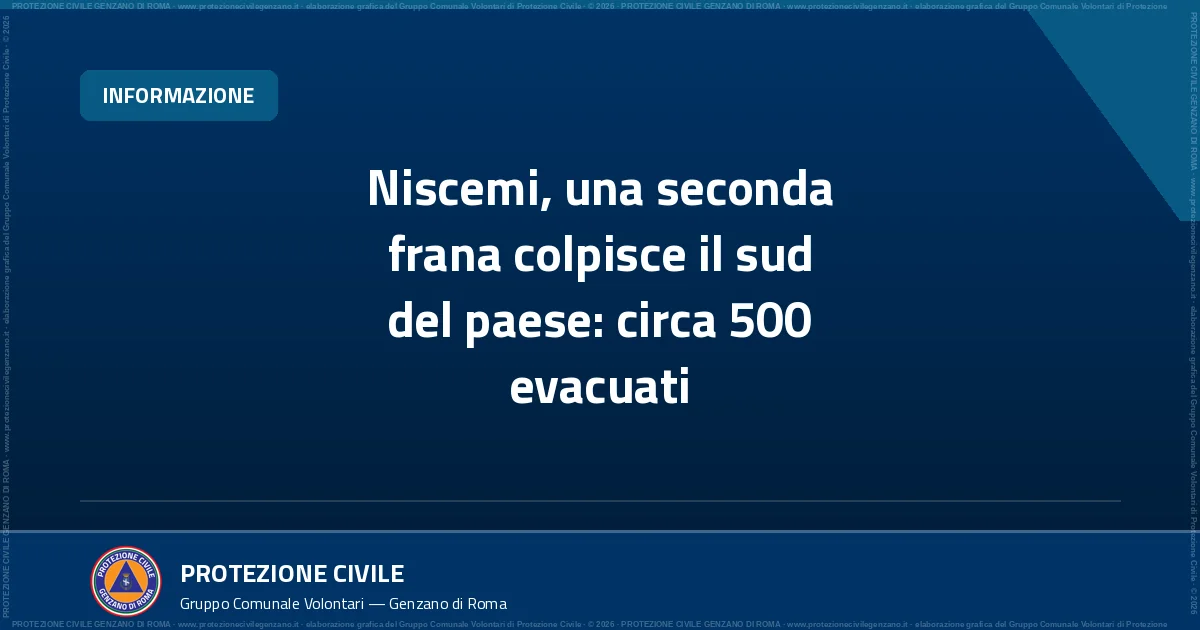
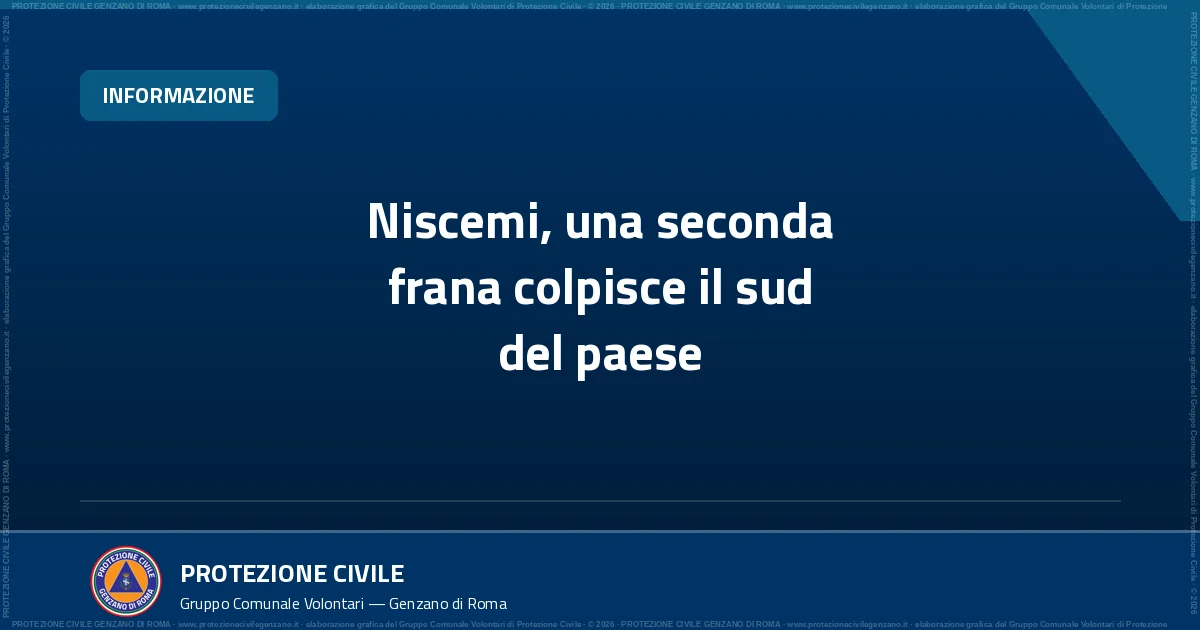
Archivio 2026: maltempo di gennaio e frana di Niscemi ricontrollati sulle fonti ufficiali
Niscemi: le persone evacuate sono 1.500 al 27 gennaio secondo il Dipartimento della Protezione Civile, non «circa 500» come nelle prime cronache; titolo e copertina aggiornati, tolti i dettagli presenti solo nelle cronache, aggiunti fronte instabile e rilievi dell'Università di Firenze. Decreto-legge 25 e ordinanza 1180: destinazione dei fondi, integrazione al reddito e aggiornamento sulla conversione in legge (legge 27 aprile 2026, n. 59). Piogge e vento al passato come nella fonte.

Changed region(s): [[0.3083, 0.2714, 0.7092, 0.6635]]

diff --git a/content/comunicazioni/2026-02-27-decreto-legge-25-maltempo-sud-niscemi.md b/content/comunicazioni/2026-02-27-decreto-legge-25-maltempo-sud-niscemi.md
@@ -20,17 +20,17 @@ Venerdì 27 febbraio 2026 la Gazzetta Ufficiale n. 48 pubblica il decreto-legge 
 
 ## Gli aiuti per il maltempo iniziato il 18 gennaio
 
-Per queste tre regioni il Consiglio dei ministri aveva dichiarato lo stato di emergenza il 26 gennaio, per dodici mesi. Per i fabbisogni legati al maltempo il decreto autorizza 90 milioni di euro per il 2026 e 25 milioni per il 2027. Per il 2027 se ne aggiungono altri 50.
+Per queste tre regioni il Consiglio dei ministri aveva dichiarato lo stato di emergenza il 26 gennaio, per dodici mesi. Il decreto autorizza 90 milioni di euro per il 2026 e 25 per il 2027. Per il 2027 se ne aggiungono altri 50. Servono per i danni ai beni dei privati e alle attività economiche e produttive. È una misura della legge di bilancio 2022, che il decreto estende a questi eventi.
 
 Alcune famiglie e imprese avevano la casa o la sede in un immobile danneggiato e sgomberato perché inagibile. Per loro sono sospesi i versamenti di imposte e contributi in scadenza dal 18 gennaio al 30 aprile 2026. Si pagano in un'unica soluzione entro il 10 ottobre 2026, senza sanzioni né interessi.
 
-Nei comuni colpiti i lavoratori dipendenti che non hanno potuto lavorare ricevono dall'INPS un'integrazione al reddito, al massimo fino al 30 aprile 2026. I lavoratori autonomi che hanno dovuto fermarsi hanno un'indennità di 500 euro per ogni periodo di sospensione fino a quindici giorni. Il totale non può superare 3.000 euro.
+Nei comuni colpiti i lavoratori dipendenti del settore privato che non hanno potuto lavorare ricevono un'integrazione al reddito. Vale al massimo fino al 30 aprile 2026. La paga l'Istituto nazionale della previdenza sociale (INPS). I lavoratori autonomi costretti a fermarsi hanno un'indennità di 500 euro per ogni periodo di sospensione fino a quindici giorni. Il totale non può superare 3.000 euro.
 
 ## Niscemi: un commissario e i contributi per spostarsi
 
 Il Capo del Dipartimento della Protezione Civile diventa Commissario straordinario per l'area di Niscemi, senza compensi. Resta in carica fino al 31 dicembre 2027 e dispone di 150 milioni di euro per il 2026.
 
-Entro sessanta giorni prepara i programmi d'intesa con il Presidente della Regione Siciliana, sentito il sindaco. Metà dei fondi, 75 milioni, serve a demolire gli edifici nell'area della frana e nella fascia di rispetto e a dare un contributo ai proprietari. L'altra metà finanzia interventi di prevenzione e di riduzione del rischio idraulico e idrogeologico.
+Entro sessanta giorni prepara i programmi d'intesa con il Presidente della Regione Siciliana, sentito il sindaco. Metà dei fondi, 75 milioni, serve a demolire gli edifici nell'area della frana e nella fascia di rispetto. La stessa somma copre anche un contributo ai proprietari degli edifici demoliti. L'altra metà finanzia interventi di prevenzione e di riduzione del rischio idraulico e idrogeologico.
 
 Con il contributo i proprietari possono comprare un terreno già previsto dai piani urbanistici, oppure un immobile subito disponibile. Vale a Niscemi o nei comuni vicini.
 
@@ -42,16 +42,31 @@ Il Dipartimento coordina e gestisce la Rete Radio Nazionale di protezione civile
 
 A Genzano le allerte meteo restano quelle del bollettino del Centro Funzionale regionale, sulla pagina [Allerte meteo](/allerte-meteo/). In emergenza si chiama il 112.
 
+## Aggiornamento del 5 novembre 2026: il decreto convertito in legge
+
+La legge 27 aprile 2026, n. 59, ha convertito il decreto con alcune modifiche. È nella Gazzetta Ufficiale n. 97 del 28 aprile. Fra le modifiche, queste riguardano le misure descritte sopra:
+
+- la sospensione vale anche per i canoni di leasing di edifici distrutti o inagibili e di beni usati nell'attività;
+- il Commissario straordinario subentra anche nella gestione delle attività dell'[ordinanza n. 1180](/comunicazioni/2026-01-30-ordinanza-1180-maltempo-gennaio/) per il territorio di Niscemi;
+- il contributo per Niscemi può servire anche a costruire un immobile sulle aree acquistate;
+- in alternativa, può servire a rimettere in uso un altro immobile di cui il proprietario dispone;
+- il contributo può andare anche ai titolari di immobili privati non residenziali entro 150 metri dal bordo superiore della frana;
+- aree e immobili nei comuni vicini sono ammessi solo se a Niscemi mancano quelli idonei;
+- per le regole dell'app serve anche l'intesa della Conferenza unificata fra Stato, Regioni ed enti locali.
+
+Il testo in vigore del decreto è su Normattiva, fra le fonti qui sotto.
+
 ## Per approfondire
 
 **Sul nostro sito:**
 
 - [Niscemi, una seconda frana colpisce il sud del paese](/comunicazioni/2026-01-25-niscemi-seconda-frana-evacuazioni/)
 - [Maltempo al Sud: stato di emergenza per Calabria, Sardegna e Sicilia](/comunicazioni/2026-01-26-stato-emergenza-calabria-sardegna-sicilia/)
+- [Ordinanza n. 1180: i primi interventi dopo il maltempo di gennaio al Sud](/comunicazioni/2026-01-30-ordinanza-1180-maltempo-gennaio/)
 - [IT-alert: prorogata la sperimentazione per maremoto e Stromboli](/comunicazioni/2026-02-12-it-alert-proroga-sperimentazione/)
 - [Rischio idrogeologico](/rischi-prevenzione/rischio-idrogeologico/)
 
 **Fonti:**
 
 - [Gazzetta Ufficiale — Decreto-legge 27 febbraio 2026, n. 25 (Serie generale n. 48, testo originale)](https://www.gazzettaufficiale.it/eli/id/2026/02/27/26G00045/sg)
-- [Normattiva — Decreto-legge 27 febbraio 2026, n. 25, testo vigente](https://www.normattiva.it/eli/id/2026/02/27/26G00045/CONSOLIDATED)
+- [Normattiva — Decreto-legge 27 febbraio 2026, n. 25, convertito dalla legge 27 aprile 2026, n. 59, testo vigente](https://www.normattiva.it/eli/id/2026/02/27/26G00045/CONSOLIDATED)

diff --git a/content/comunicazioni/2026-01-25-niscemi-seconda-frana-evacuazioni.md b/content/comunicazioni/2026-01-25-niscemi-seconda-frana-evacuazioni.md
@@ -1,12 +1,12 @@
 ---
-title: "Niscemi, una seconda frana colpisce il sud del paese: circa 500 evacuati"
+title: "Niscemi, una seconda frana colpisce il sud del paese"
 date: 2026-01-25
-description: "Domenica 25 gennaio si riattiva il fronte della frana del 1997 a Niscemi, in provincia di Caltanissetta. Per precauzione vengono evacuate circa 500 persone."
+description: "Domenica 25 gennaio si riattiva il fronte della frana del 1997 a Niscemi, in provincia di Caltanissetta. Il 27 gennaio le persone evacuate sono 1.500."
 badge: "Informazione"
 priorita: "normale"
 autore: "Gruppo Comunale Volontari PC Genzano"
 image: "/images/2026-01-25-niscemi-seconda-frana-evacuazioni.webp"
-image_alt: "Cover dell'articolo: Niscemi, una seconda frana colpisce il sud del paese: circa 500 evacuati"
+image_alt: "Cover dell'articolo: Niscemi, una seconda frana colpisce il sud del paese"
 scadenza: ""
 area: ""
 allegati: []
@@ -16,25 +16,27 @@ social_punti: []
 draft: false
 ---
 
-Domenica 25 gennaio 2026, intorno alle 12.30, a Niscemi, in provincia di Caltanissetta, la collina si muove di nuovo. Si riattiva il fronte della frana del 1997, a ridosso della parte sud del centro abitato. Per precauzione, la Protezione civile della Regione Siciliana dispone l'evacuazione di circa 500 persone.
+Domenica 25 gennaio 2026, intorno alle 12.30, a Niscemi, in provincia di Caltanissetta, la collina si muove di nuovo. Si riattiva il fronte della frana del 1997, a ridosso della parte sud del centro abitato. Il Sindaco individua una zona rossa e ne dispone l'evacuazione. Secondo il Dipartimento della Protezione Civile, il 27 gennaio le persone evacuate sono 1.500.
 
 ## La seconda frana in nove giorni
 
 Niscemi era già in difficoltà. Nelle prime ore di venerdì 16 gennaio una grande frana aveva colpito l'area a ridosso della parte occidentale del paese.
 
-La frana del 25 gennaio è più grande. Compromette gran parte della viabilità locale e la stabilità di numerosi edifici, e interrompe i servizi essenziali. Il cedimento interessa anche la strada provinciale 10, nel tratto che porta al centro abitato, vicino al quartiere Sante Croci. Rilievi e approfondimenti geologici servono a capire se il nuovo movimento sia collegato a quello del 16 gennaio.
+La frana del 25 gennaio è più grande. Compromette gran parte della viabilità locale e la stabilità di numerosi edifici, e interrompe i servizi essenziali. In tutto, secondo il Dipartimento, il fronte instabile corre per circa 4,7 chilometri lungo il margine del paese. Coinvolge il settore Sante Croci-Belvedere, l'area del torrente Benefizio e i versanti fra le strade provinciali 10 e 12. Il 26 gennaio il Dipartimento attiva l'Università di Firenze, suo centro di competenza, per i primi rilievi sul campo.
 
 ## L'accoglienza
 
-Per chi lascia casa è pronta un'area di accoglienza nel Palazzetto dello Sport «Pio La Torre». Da Palermo vengono trasferite centinaia di brandine. Sul posto lavorano i Vigili del fuoco e circa 70 volontari arrivati dai territori vicini. Con loro ci sono il Sindaco e i tecnici del Comune e della Protezione civile regionale.
+Per chi lascia casa è pronta un'area di accoglienza nel Palazzetto dello Sport «Pio La Torre». Secondo le cronache, da Palermo arrivano centinaia di brandine.
+
+Al 27 gennaio, riferisce il Dipartimento, la maggior parte delle persone evacuate ha trovato posto da familiari. Al palazzetto ne sono ospitate circa 20. Sul posto lavorano numerose squadre dei Vigili del Fuoco e circa 60 volontari di organizzazioni locali di protezione civile. Le Forze dell'ordine fanno rispettare il divieto di accesso alla zona rossa.
 
 ## Una frana che ha una storia
 
 Il 12 ottobre 1997 una frana di circa 1,5 chilometri quadrati aveva colpito Niscemi. Nel quartiere Sante Croci edifici pubblici e privati erano stati distrutti o dichiarati inagibili. Due giorni dopo era stato dichiarato lo stato di emergenza.
 
-Secondo il Dipartimento della Protezione Civile, da quell'evento erano rimasti aperti due problemi: il piano per demolire gli edifici dell'area di frana e indennizzare i proprietari, e i lavori di consolidamento della frana. Nel maggio 2025 gli enti del territorio riferivano che il fronte di frana era ancora attivo. Secondo loro poteva minacciare anche case di altri quartieri.
+Secondo il Dipartimento della Protezione Civile, da quell'evento erano rimasti aperti due problemi. Il primo era il piano per demolire gli edifici dell'area di frana e indennizzare i proprietari. Il secondo era il consolidamento della frana. Nel maggio 2025 gli enti del territorio riferivano che il fronte di frana era ancora attivo. Secondo loro poteva minacciare anche case di altri quartieri.
 
-Il caso di Niscemi mostra che una frana conosciuta può tornare a muoversi, anche dopo molti anni. Le aree a pericolosità di frana sono mappate: nella pagina sul [rischio idrogeologico](/rischi-prevenzione/rischio-idrogeologico/) trovi dove consultare le mappe per il tuo indirizzo. In caso di pericolo immediato chiama il 112.
+Il caso di Niscemi mostra che una frana conosciuta può tornare a muoversi, anche dopo molti anni. Le aree a pericolosità di frana sono mappate. Nella pagina sul [rischio idrogeologico](/rischi-prevenzione/rischio-idrogeologico/) trovi dove consultare le mappe per il tuo indirizzo. In caso di pericolo immediato chiama il 112.
 
 ## Per approfondire
 

diff --git a/content/comunicazioni/2026-01-30-ordinanza-1180-maltempo-gennaio.md b/content/comunicazioni/2026-01-30-ordinanza-1180-maltempo-gennaio.md
@@ -26,7 +26,7 @@ Il piano riguarda il soccorso e l'assistenza alla popolazione e il ripristino de
 
 ## Gli aiuti per famiglie e imprese
 
-Il contributo per l'autonoma sistemazione aiuta chi deve vivere altrove. Riguarda le famiglie con la casa principale distrutta, anche in parte, o sgomberata per ordine del Comune. Va da 400 euro al mese per una persona sola a 900 euro per cinque o più persone. Si aggiungono 200 euro al mese per ogni persona con più di 65 anni o con un'invalidità di almeno il 67%. Il contributo non spetta se Regione, Provincia o Comune offrono un alloggio gratuito.
+Il contributo per l'autonoma sistemazione aiuta chi deve vivere altrove. Riguarda le famiglie con la casa principale distrutta, anche in parte, o sgomberata per ordine del Comune. Va da 400 euro al mese per una persona sola a 900 euro per cinque o più persone. Si aggiungono 200 euro al mese per ogni persona con più di 65 anni o un'invalidità di almeno il 67%. Il contributo non spetta se Regione, Provincia o Comune offrono un alloggio gratuito.
 
 I commissari stimano anche le risorse per un primo sostegno immediato. Il tetto è di 5.000 euro per ogni famiglia con la casa principale compromessa. Per ogni attività economica è di 20.000 euro. Chi ha un mutuo su un edificio sgomberato o danneggiato può chiedere alla banca di sospendere le rate.
 
@@ -36,12 +36,17 @@ L'articolo 17 dell'ordinanza riguarda la frana di Niscemi. Il Presidente della R
 
 L'ordinanza applica gli articoli 39 e 40 del Codice della protezione civile alle organizzazioni di volontariato. Devono essere iscritte negli elenchi territoriali delle tre Regioni. I volontari conservano il posto di lavoro e la retribuzione e sono assicurati. Le spese autorizzate possono essere rimborsate, nei limiti delle risorse disponibili.
 
+## Aggiornamento del 5 novembre 2026: il Commissario per Niscemi
+
+Il 27 febbraio il [decreto-legge n. 25](/comunicazioni/2026-02-27-decreto-legge-25-maltempo-sud-niscemi/) ha nominato il Capo del Dipartimento Commissario straordinario per l'area di Niscemi. La legge 27 aprile 2026, n. 59, ha convertito il decreto. Con la conversione il Commissario subentra anche nella gestione delle attività di questa ordinanza, per il solo territorio di Niscemi.
+
 ## Per approfondire
 
 **Sul nostro sito:**
 
 - [Maltempo al Sud: stato di emergenza per Calabria, Sardegna e Sicilia](/comunicazioni/2026-01-26-stato-emergenza-calabria-sardegna-sicilia/)
 - [Niscemi, una seconda frana colpisce il sud del paese](/comunicazioni/2026-01-25-niscemi-seconda-frana-evacuazioni/)
+- [Decreto-legge n. 25 del 2026: misure per il maltempo al Sud e per la frana di Niscemi](/comunicazioni/2026-02-27-decreto-legge-25-maltempo-sud-niscemi/)
 - [Codice della protezione civile, Capo IV: le emergenze di rilievo nazionale](/normativa/testo-unico-protezione-civile/capo-4-emergenze-nazionali/)
 - [Codice della protezione civile, Capo V: il volontariato](/normativa/testo-unico-protezione-civile/capo-5-volontariato/)
 
@@ -49,3 +54,4 @@ L'ordinanza applica gli articoli 39 e 40 del Codice della protezione civile alle
 
 - [Dipartimento della Protezione Civile — Ordinanza n. 1180 del 30 gennaio 2026](https://www.protezionecivile.gov.it/it/normativa/ocdpc-n-1180-del-30-gennaio-2026/) (pubblicata nella Gazzetta Ufficiale n. 27 del 3 febbraio 2026)
 - [Normattiva — Decreto legislativo 2 gennaio 2018, n. 1, articolo 39](https://www.normattiva.it/uri-res/N2Ls?urn:nir:stato:decreto.legislativo:2018-01-02;1~art39) e [articolo 40](https://www.normattiva.it/uri-res/N2Ls?urn:nir:stato:decreto.legislativo:2018-01-02;1~art40)
+- [Normattiva — Decreto-legge 27 febbraio 2026, n. 25, convertito dalla legge 27 aprile 2026, n. 59, articolo 15, testo vigente](https://www.normattiva.it/uri-res/N2Ls?urn:nir:stato:decreto.legge:2026-02-27;25~art15)

diff --git a/content/comunicazioni/2026-01-21-maltempo-sud-oltre-500-millimetri.md b/content/comunicazioni/2026-01-21-maltempo-sud-oltre-500-millimetri.md
@@ -16,7 +16,7 @@ social_punti: []
 draft: false
 ---
 
-Dalle prime ore di domenica 18 gennaio 2026 un'ondata di maltempo colpisce Calabria, Sardegna e Sicilia. Mercoledì 21 gennaio il Dipartimento della Protezione Civile pubblica i dati dell'evento: in tutte e tre le regioni alcune stazioni hanno misurato oltre 500 millimetri di pioggia. Il valore più alto è a San Sostene, in provincia di Catanzaro: 569,9 millimetri in 72 ore.
+Dalle prime ore di domenica 18 gennaio 2026 un'ondata di maltempo colpisce Calabria, Sardegna e Sicilia. Mercoledì 21 gennaio il Dipartimento della Protezione Civile pubblica i dati dell'evento. In tutte e tre le regioni alcune stazioni hanno misurato oltre 500 millimetri di pioggia. Il valore più alto è a San Sostene, in provincia di Catanzaro: 569,9 millimetri in 72 ore.
 
 ## I picchi di pioggia
 
@@ -30,9 +30,9 @@ Oltre 400 millimetri sono caduti anche in varie stazioni delle province di Catan
 
 ## Vento e mareggiate
 
-Il vento soffia con forza di burrasca forte, con raffiche fino a tempesta violenta. I venti medi si aggirano sui 70 km/h, con frequenti raffiche oltre i 100 km/h. Sulle coste esposte le mareggiate sono forti ed estese.
+Durante l'ondata di maltempo il vento ha soffiato con forza di burrasca forte, con raffiche fino a tempesta violenta. I venti medi sono stati intorno ai 70 km/h, con frequenti raffiche oltre i 100 km/h. Sulle coste esposte il vento ha provocato mareggiate forti ed estese.
 
-Tra il 20 e il 21 gennaio la Rete Ondametrica Nazionale registra onde alte quasi 10 metri a Catania. A Capo Colonna, in provincia di Crotone, arrivano a 7,50 metri; a Capo Boi, in provincia di Cagliari, a circa 4,50 metri.
+Tra il 20 e il 21 gennaio la Rete Ondametrica Nazionale registra onde alte quasi 10 metri a Catania. A Capo Colonna, in provincia di Crotone, arrivano a 7,50 metri. A Capo Boi, in provincia di Cagliari, toccano circa 4,50 metri.
 
 ## Come si segue un evento così
 
